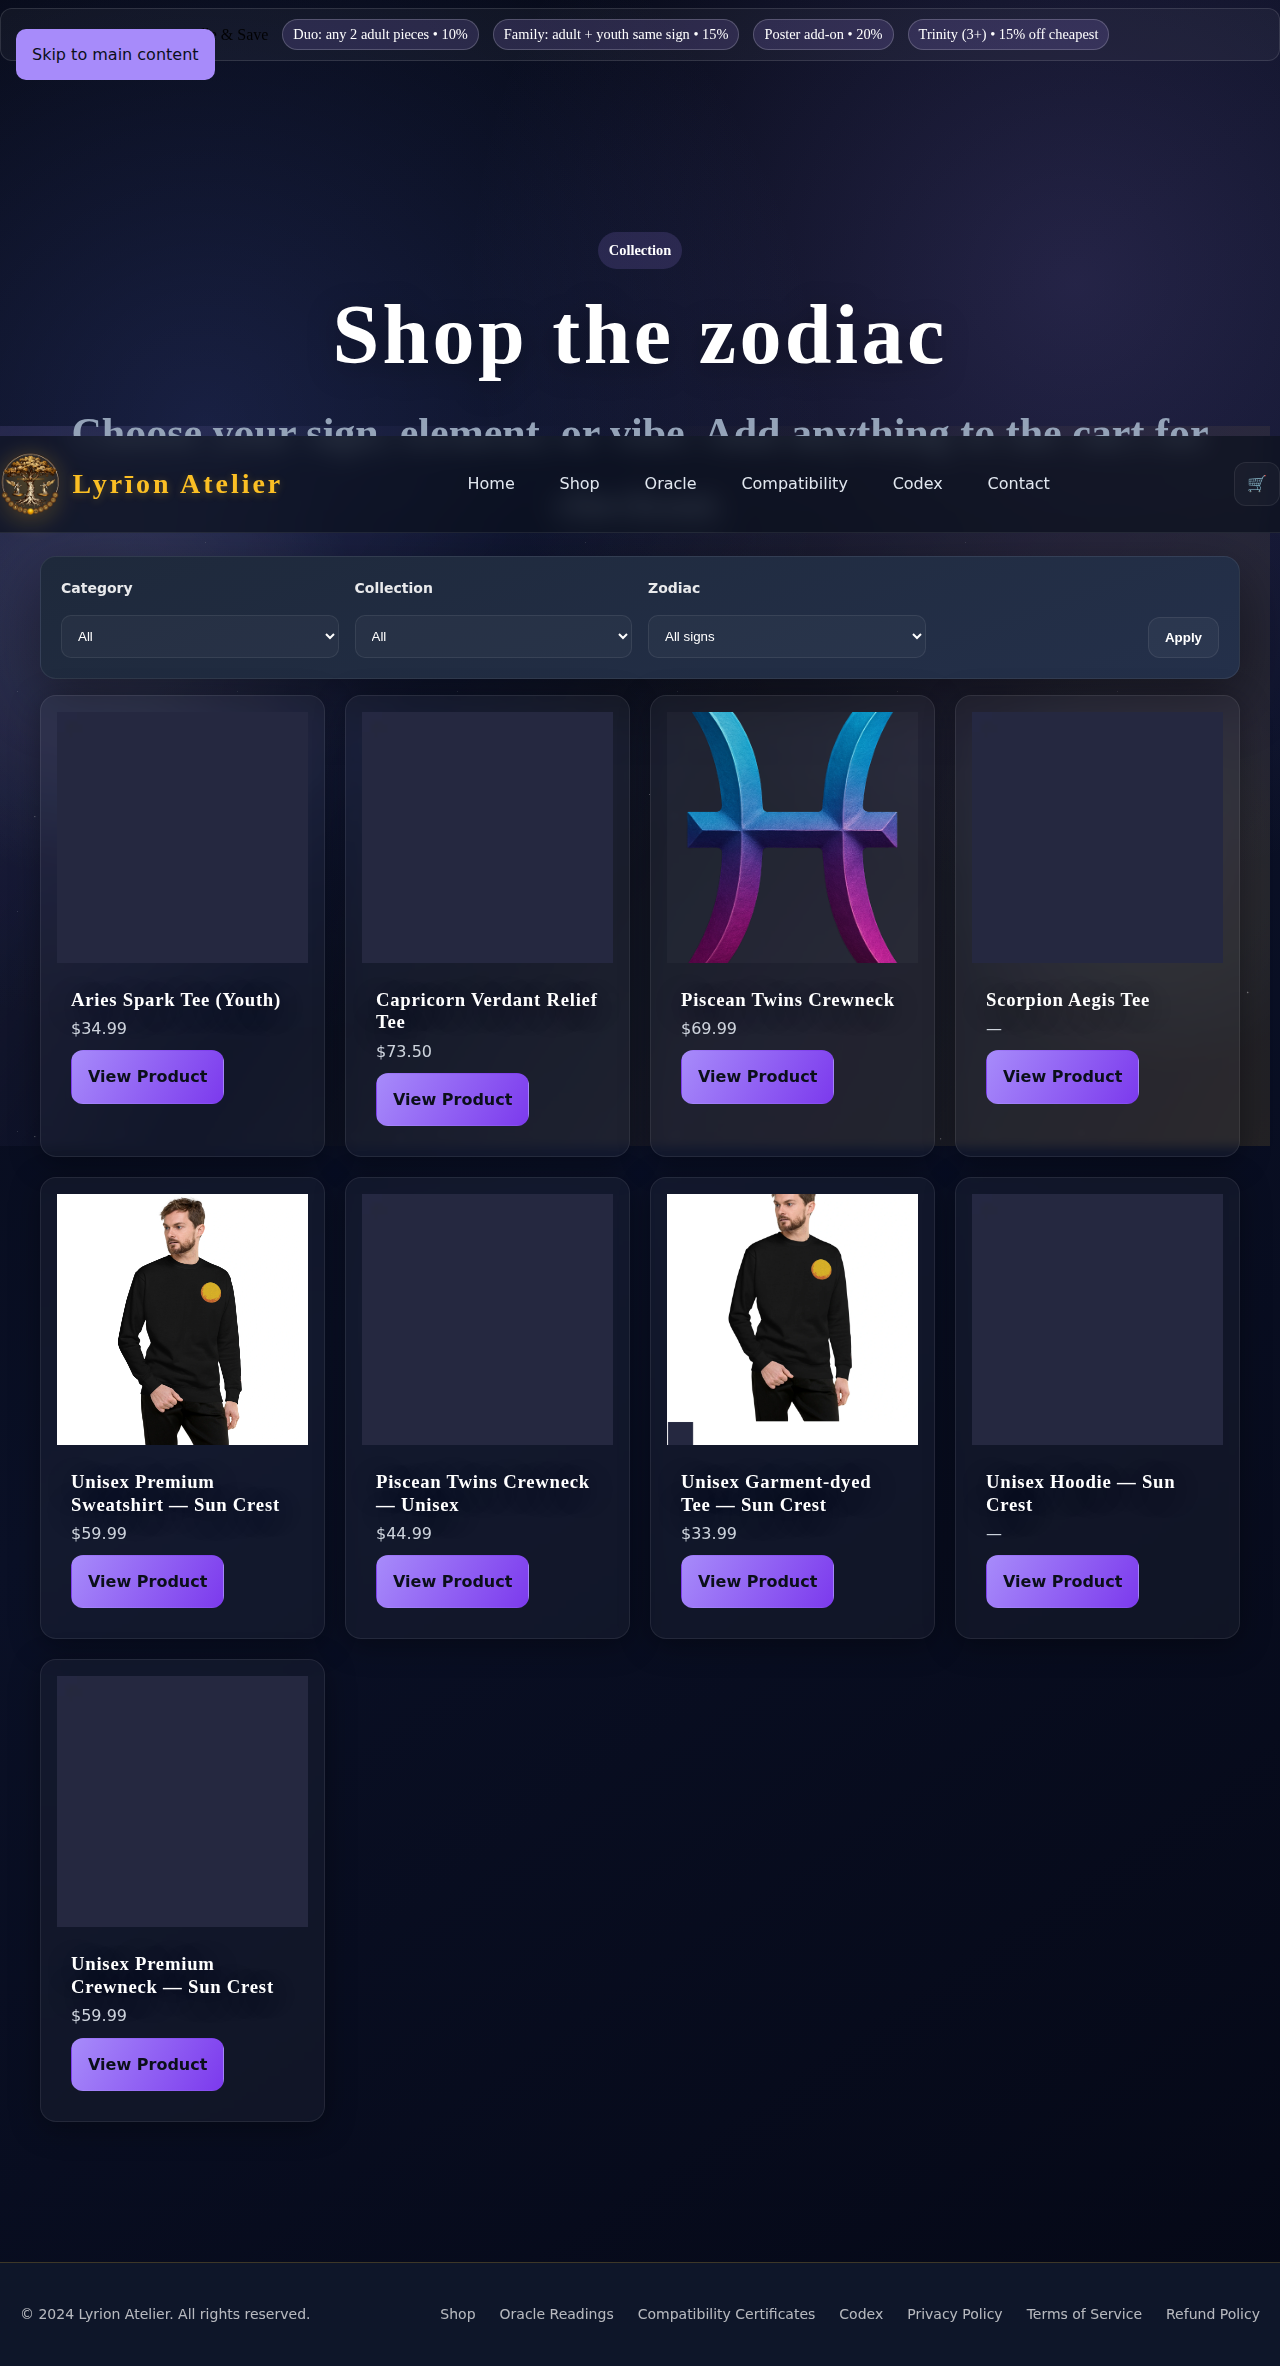
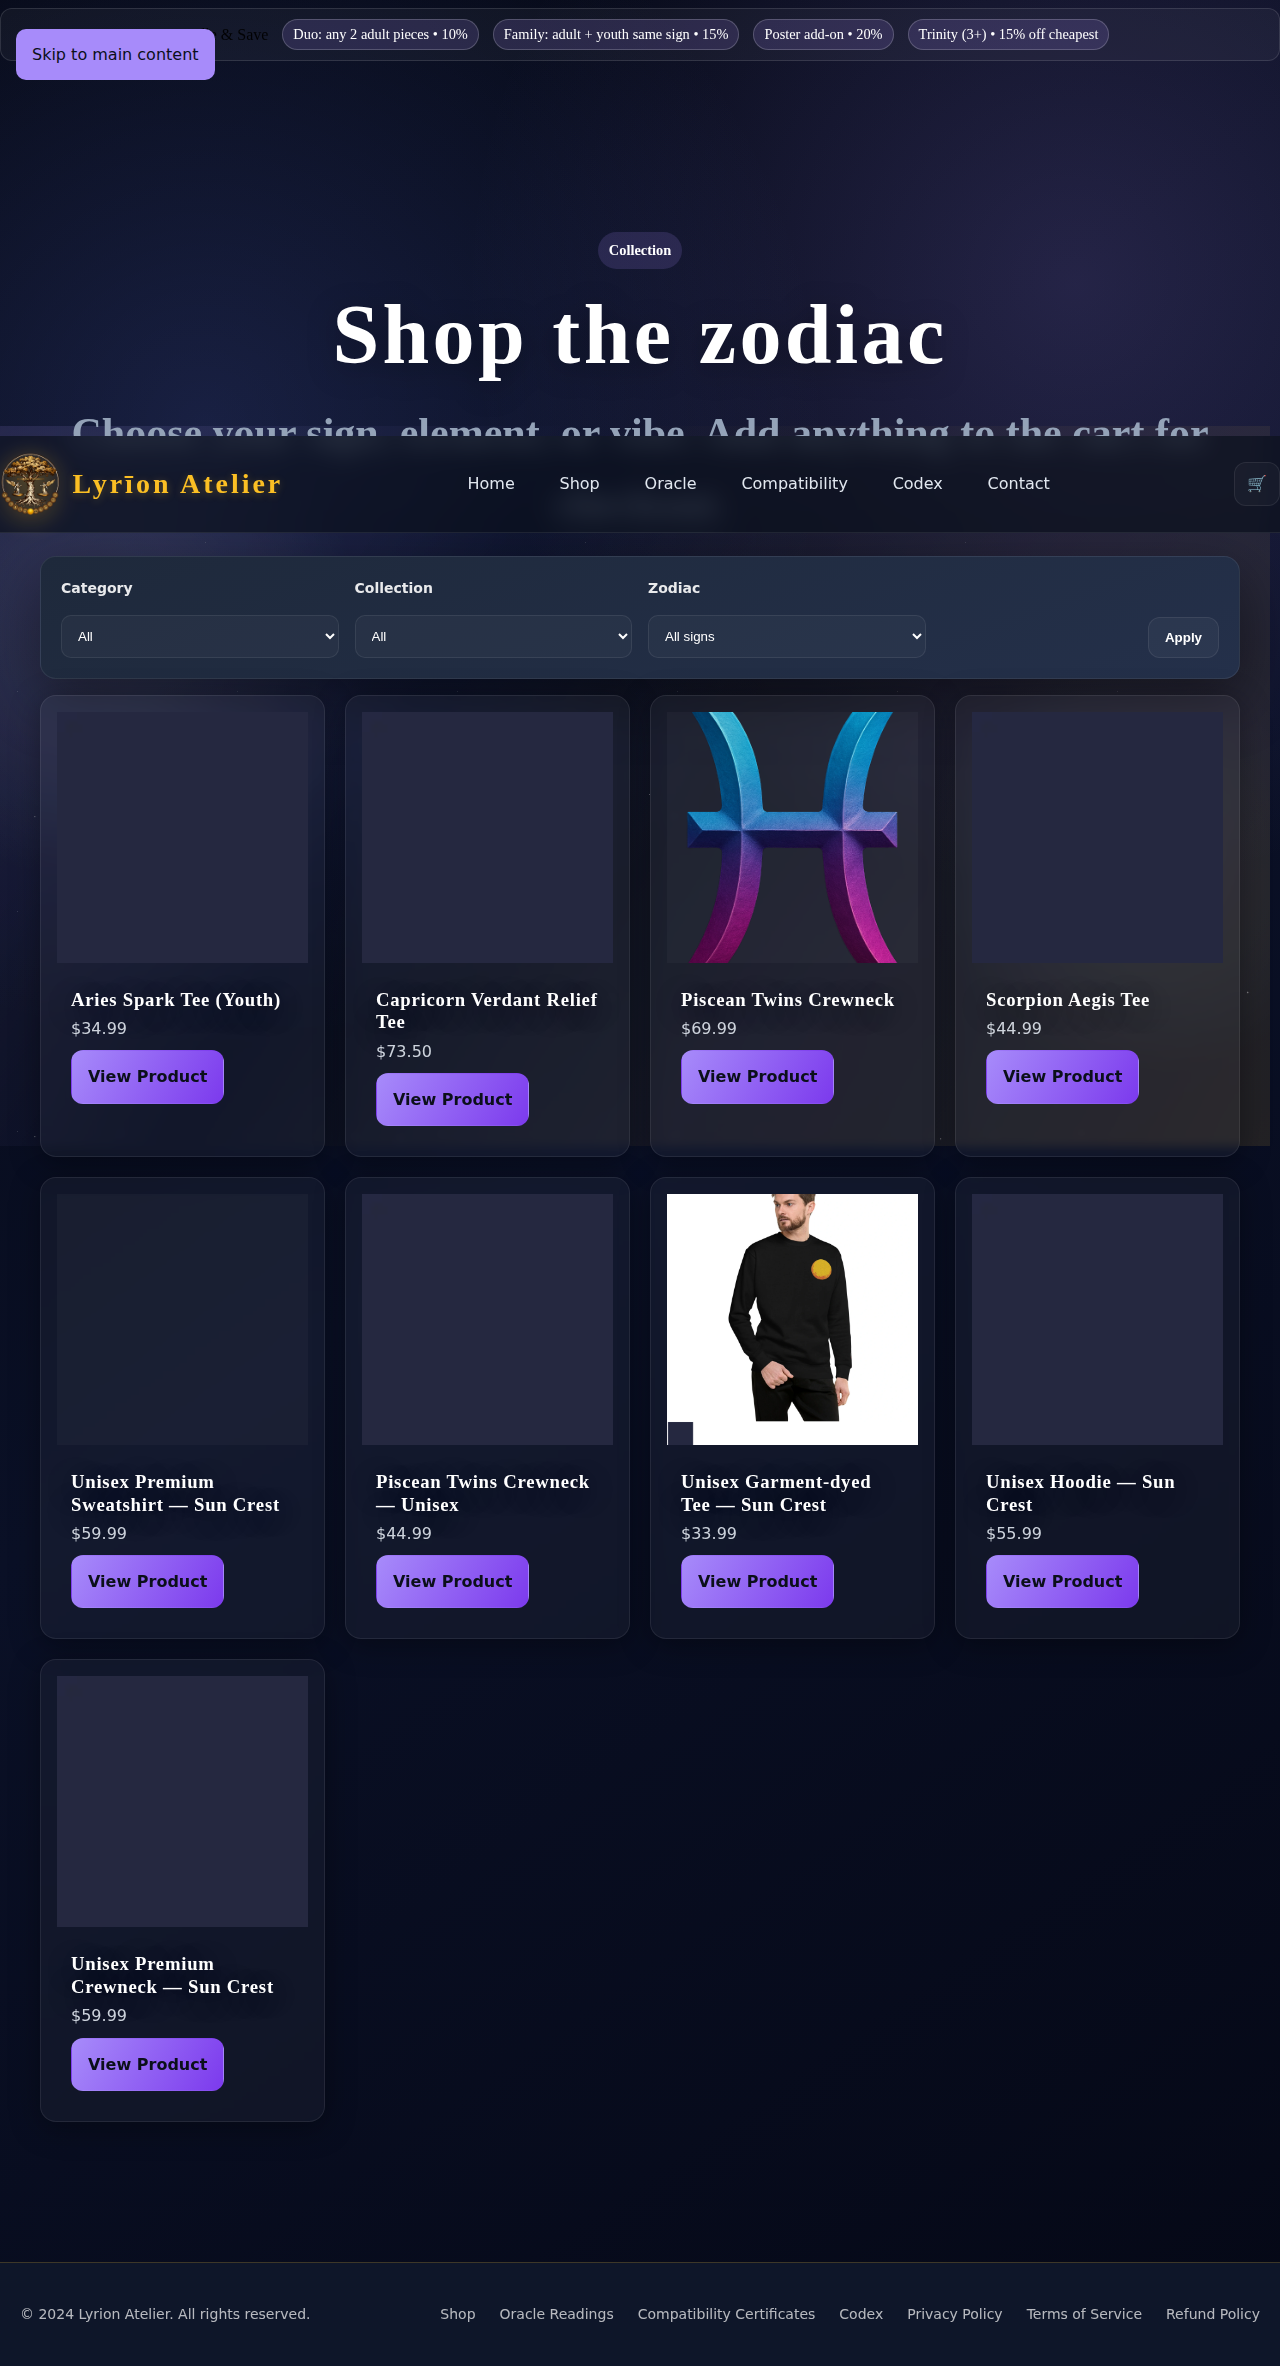
fix: ensure product prices render

Changed region(s): [[0.0312, 0.4937, 0.25, 0.6171]]

diff --git a/js/shop-page.js b/js/shop-page.js
@@ -149,6 +149,15 @@ import { formatPrice, currencySymbol } from './price-utils.js';
     return { cents, label: `USD ${dollars.toFixed(2)}`, value: dollars };
   };
 
+  function displayPrice(p) {
+    if (typeof p?.price === 'number') return p.price;
+    if (Array.isArray(p?.variants) && p.variants.length) {
+      const vals = p.variants.map((v = {}) => v.price).filter((x) => typeof x === 'number');
+      if (vals.length) return Math.min(...vals);
+    }
+    return null;
+  }
+
   const pickVariant = (product = {}) => {
     const variants = Array.isArray(product.variants) ? product.variants : [];
     if (!variants.length) return null;
@@ -263,10 +272,17 @@ import { formatPrice, currencySymbol } from './price-utils.js';
     const variant = p.defaultVariant || pickVariant(p);
     const hasPriceData = Number.isFinite(p.price) || Number.isFinite(p.priceCents) || !!p.priceLabel;
     const basePrice = hasPriceData ? null : normalizePrice(p);
-    const priceCents = Number.isFinite(p.priceCents) ? p.priceCents : basePrice?.cents ?? null;
+    const fallbackPriceValue = displayPrice(p);
+    const priceCents = Number.isFinite(p.priceCents)
+      ? p.priceCents
+      : Number.isFinite(fallbackPriceValue)
+        ? Math.round(fallbackPriceValue * 100)
+        : basePrice?.cents ?? null;
     const priceValue = Number.isFinite(p.price)
       ? p.price
-      : basePrice?.value ?? (Number.isFinite(priceCents) ? priceCents / 100 : null);
+      : Number.isFinite(fallbackPriceValue)
+        ? fallbackPriceValue
+        : basePrice?.value ?? (Number.isFinite(priceCents) ? priceCents / 100 : null);
     const priceRange = (() => {
       const currency = (p.price?.currency || p.currency || 'USD').toUpperCase();
       const symbol = currencySymbol(currency);

diff --git a/tests/shop.spec.ts b/tests/shop.spec.ts
@@ -140,6 +140,11 @@ test.describe('shop smoke test', () => {
       expect(noticeText || '').toMatch(PLACEHOLDER_NOTICE);
     }
 
+    const scorpionPrice = page.locator('[data-slug="scorpion-aegis-tee"] .product-card__price');
+    await expect(scorpionPrice).toHaveText(/\$44\.99/);
+    const hoodiePrice = page.locator('[data-slug="unisex-hoodie-sun-crest"] .product-card__price');
+    await expect(hoodiePrice).toHaveText(/\$55\.99/);
+
     const relevantErrors = consoleErrors.filter((msg) => !/ERR_NAME_NOT_RESOLVED/i.test(msg));
     expect(relevantErrors).toEqual([]);
     const hasPriceTypeError = consoleMessages.some((msg) => /typeerror/i.test(msg) && /price/i.test(msg));
